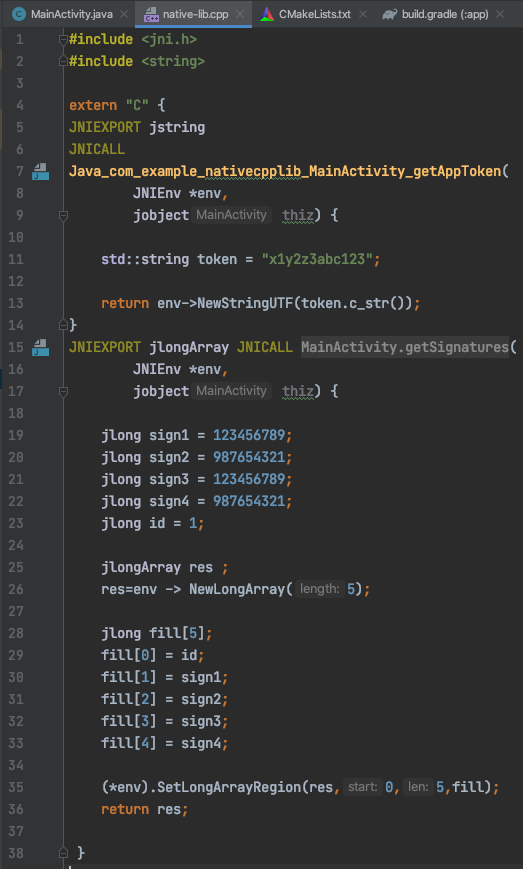
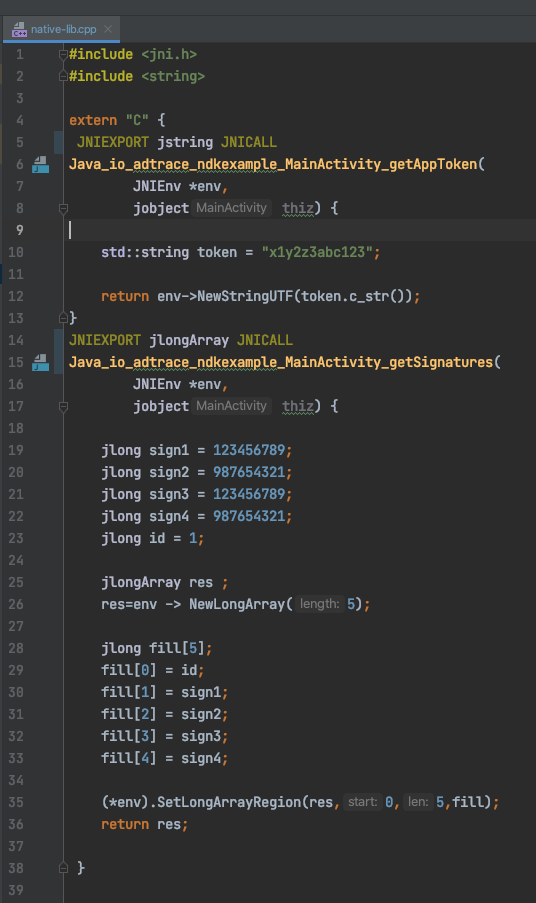
fix image 6

diff --git a/app/src/main/cpp/native-lib.cpp b/app/src/main/cpp/native-lib.cpp
@@ -2,8 +2,7 @@
 #include <string>
 
 extern "C" {
- JNIEXPORT jstring
-JNICALL
+ JNIEXPORT jstring JNICALL
 Java_io_adtrace_ndkexample_MainActivity_getAppToken(
         JNIEnv *env,
         jobject thiz) {
@@ -12,7 +11,8 @@ Java_io_adtrace_ndkexample_MainActivity_getAppToken(
 
     return env->NewStringUTF(token.c_str());
 }
-JNIEXPORT jlongArray JNICALL Java_io_adtrace_ndkexample_MainActivity_getSignatures(
+JNIEXPORT jlongArray JNICALL
+Java_io_adtrace_ndkexample_MainActivity_getSignatures(
         JNIEnv *env,
         jobject thiz) {
 
